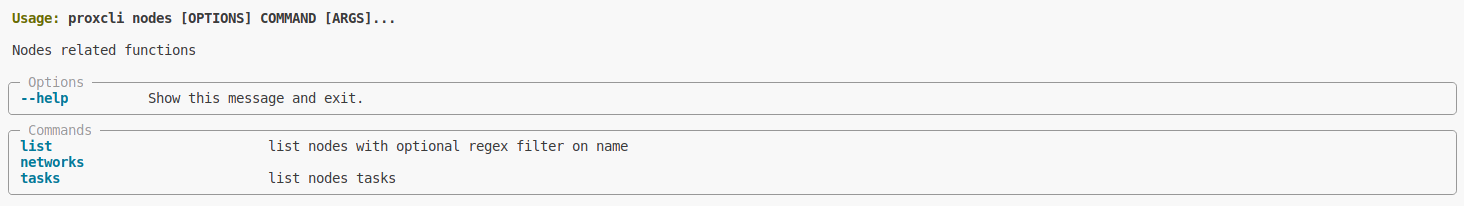
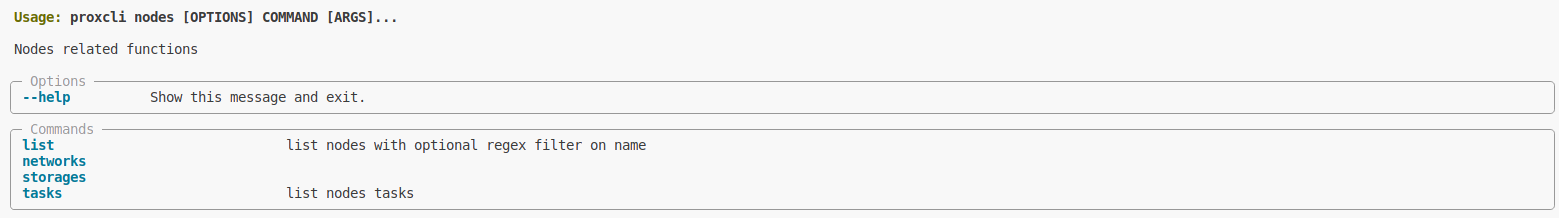
update documentation

diff --git a/content/commands/nodes/storages/content/list/_index.md b/content/commands/nodes/storages/content/list/_index.md
@@ -1,0 +1,34 @@
++++
+title = "List nodes storages content"
+weight = 1
+menuTitle = "List"
++++
+
+
+![](/images/proxcli_nodes_storages_content_list_help.png)
+
+## Options
+
+|option|description|Allowed values|
+|---|---|---|
+|storage|the node storage name (local-lvm, isos, ...)|string|
+|proxmox-node|proxmox node name|string|
+|output-format|output format can be one of table, json, yaml (default to table)|string|
+|content-type|filter by content column (iso, tzst, raw, qcow2 ....)|string|
+|content-format|filter by content format. Can be one of iso,images,backup,vztmpl|string|
+|filter-orphaned|can be YES (orphaned content), NO (no orphaned content), N/A (not applicable to orphaned content). This is a coma separated list. Default to YES,NO,N/A|string|
+
+
+## Examples
+
+- List specific node storage content
+
+```bash
+proxcli nodes storages content list --node pve1 --storage local-lvm
+```
+
+- List storage content filtered by images content-type in raw format
+
+```bash
+proxcli nodes storages content list --node pve1 --storage b4papp --content-type raw --content-format images
+```

diff --git a/content/commands/nodes/storages/upload/_index.md b/content/commands/nodes/storages/upload/_index.md
@@ -1,0 +1,27 @@
++++
+title = "Upload disk image or iso file to cluster storage"
+weight = 2
+menuTitle = "Upload"
++++
+
+
+![](/images/proxcli_nodes_storages_upload_help.png)
+
+## Options
+
+|option|description|Allowed values|
+|---|---|---|
+|file|the path to the local filename to be upload|string|
+|storage|the configured storage name in proxmox node|string|
+|proxmox-node|proxmox node name|string|
+|content|the file content type (iso or images)|string|
+
+
+## Examples
+
+- upload iso file to cluster storage
+
+```bash
+
+```
+

diff --git a/content/commands/nodes/storages/list/_index.md b/content/commands/nodes/storages/list/_index.md
@@ -5,7 +5,7 @@ menuTitle = "List"
 +++
 
 
-![](/images/proxcli_cluster_storages_list_help.png)
+![](/images/proxcli_nodes_storages_list_help.png)
 
 ## Options
 

diff --git a/content/commands/nodes/storages/_index.md b/content/commands/nodes/storages/_index.md
@@ -4,5 +4,5 @@ menuTitle: "Storages"
 weight: 3
 ---
 
-![](/images/proxcli_cluster_storages_help.png)
+![](/images/proxcli_nodes_storages_help.png)
 

diff --git a/content/commands/nodes/storages/content/_index.md b/content/commands/nodes/storages/content/_index.md
@@ -1,0 +1,8 @@
+---
+title: "Nodes storages content"
+weight: 5
+menuTitle: "Content"
+---
+
+
+![](/images/proxcli_nodes_storages_content_help.png)

diff --git a/content/commands/nodes/networks/_index.md b/content/commands/nodes/networks/_index.md
@@ -1,7 +1,7 @@
 ---
 title: "Nodes Networks"
 menuTitle: "Networks"
-weight: 1
+weight: 2
 ---
 
 ![](/images/proxcli_nodes_networks_help.png)

diff --git a/content/commands/nodes/_index.md b/content/commands/nodes/_index.md
@@ -1,7 +1,7 @@
 ---
 title: "Nodes"
 menuTitle: "Nodes"
-weight: 5
+weight: 3
 ---
 
 ![](/images/proxcli_nodes_help.png)

diff --git a/content/commands/nodes/tasks/_index.md b/content/commands/nodes/tasks/_index.md
@@ -1,6 +1,6 @@
 ---
 title: "Show cluster nodes tasks"
-weight: 2
+weight: 4
 menuTitle: "Tasks"
 ---
 
